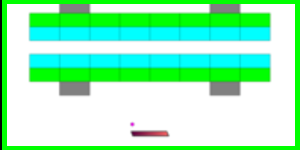
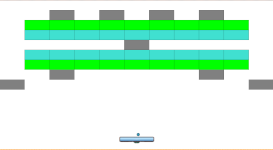
update level

diff --git a/Level.cpp b/Level.cpp
@@ -342,7 +342,15 @@ std::istream& operator >> (std::istream& s, Level& I){
                     I._board[i][j]->setPos(j * I.BrickLength + CONTOUR, i * I.BrickHeigth + CONTOUR);
                     I._scene->addItem(I._board[i][j]);
                 }
+                else if (x == 4) {
+                    //pourrait faire dequoi avec le 128 pour ajuster l'écran
+                    //si == 0 : pas de brique a cette position
+                    I._board[i][j] = new BriqueA(j * I.getLength() + CONTOUR, i * I.getHeigth() + CONTOUR, I.getLength(), I.getHeigth());
+                    I._board[i][j]->setPos(j * I.BrickLength + CONTOUR, i * I.BrickHeigth + CONTOUR);
+                    I._scene->addItem(I._board[i][j]);
 
+
+                }
                 else if (x == 8) {
                     I._board[i][j] = new BriqueT(j * I.getLength() + CONTOUR, i * I.getHeigth() + CONTOUR, I.getLength(), I.getHeigth());
                     I._board[i][j]->setPos(j * I.BrickLength + CONTOUR, i * I.BrickHeigth + CONTOUR);

diff --git a/UI/SelectLevel.cpp b/UI/SelectLevel.cpp
@@ -46,7 +46,7 @@ void SelectLevel::initUI()
 
 	addWidget(_images[4]);
 
-	_images[5] = utils->add_button("level_1.png", temp);
+	_images[5] = utils->add_button("level_6.png", temp);
 	_images[5]->move(4* this->width() / 5 - _images[5]->width() / 2 + offset, imageY);
 	addWidget(_images[5]);
 	QObject::connect(_images[5], &QPushButton::clicked, this, &SelectLevel::level6Requested);

diff --git a/gameItems/bricks/BriqueA.cpp b/gameItems/bricks/BriqueA.cpp
@@ -1,14 +1,14 @@
 #include "BriqueA.h"
 
 BriqueA::BriqueA(int x, int y, int l, int h) {
-    setBrush(Qt::blue);
+    setRect(0, 0, l, h);
+    setBrush(QColor(92, 58, 147));
     _posBrique.x = x;
     _posBrique.y = y;
     _sizeX = l;
     _sizeY = h;
     _PV = 1;
     _etat = Alive;
-    setRect(x, y, l, h);
 
     //length et height peut-etre a definir
 }

diff --git a/gameItems/bricks/BriqueB.cpp b/gameItems/bricks/BriqueB.cpp
@@ -2,7 +2,7 @@
 
 BriqueB::BriqueB(int x, int y, int l, int h) {
     setRect(0,0,l,h);
-    setBrush(Qt::cyan);
+    setBrush(QColor(64, 224, 208));
     _posBrique.x = x;
     _posBrique.y = y;
     _sizeX = l;
